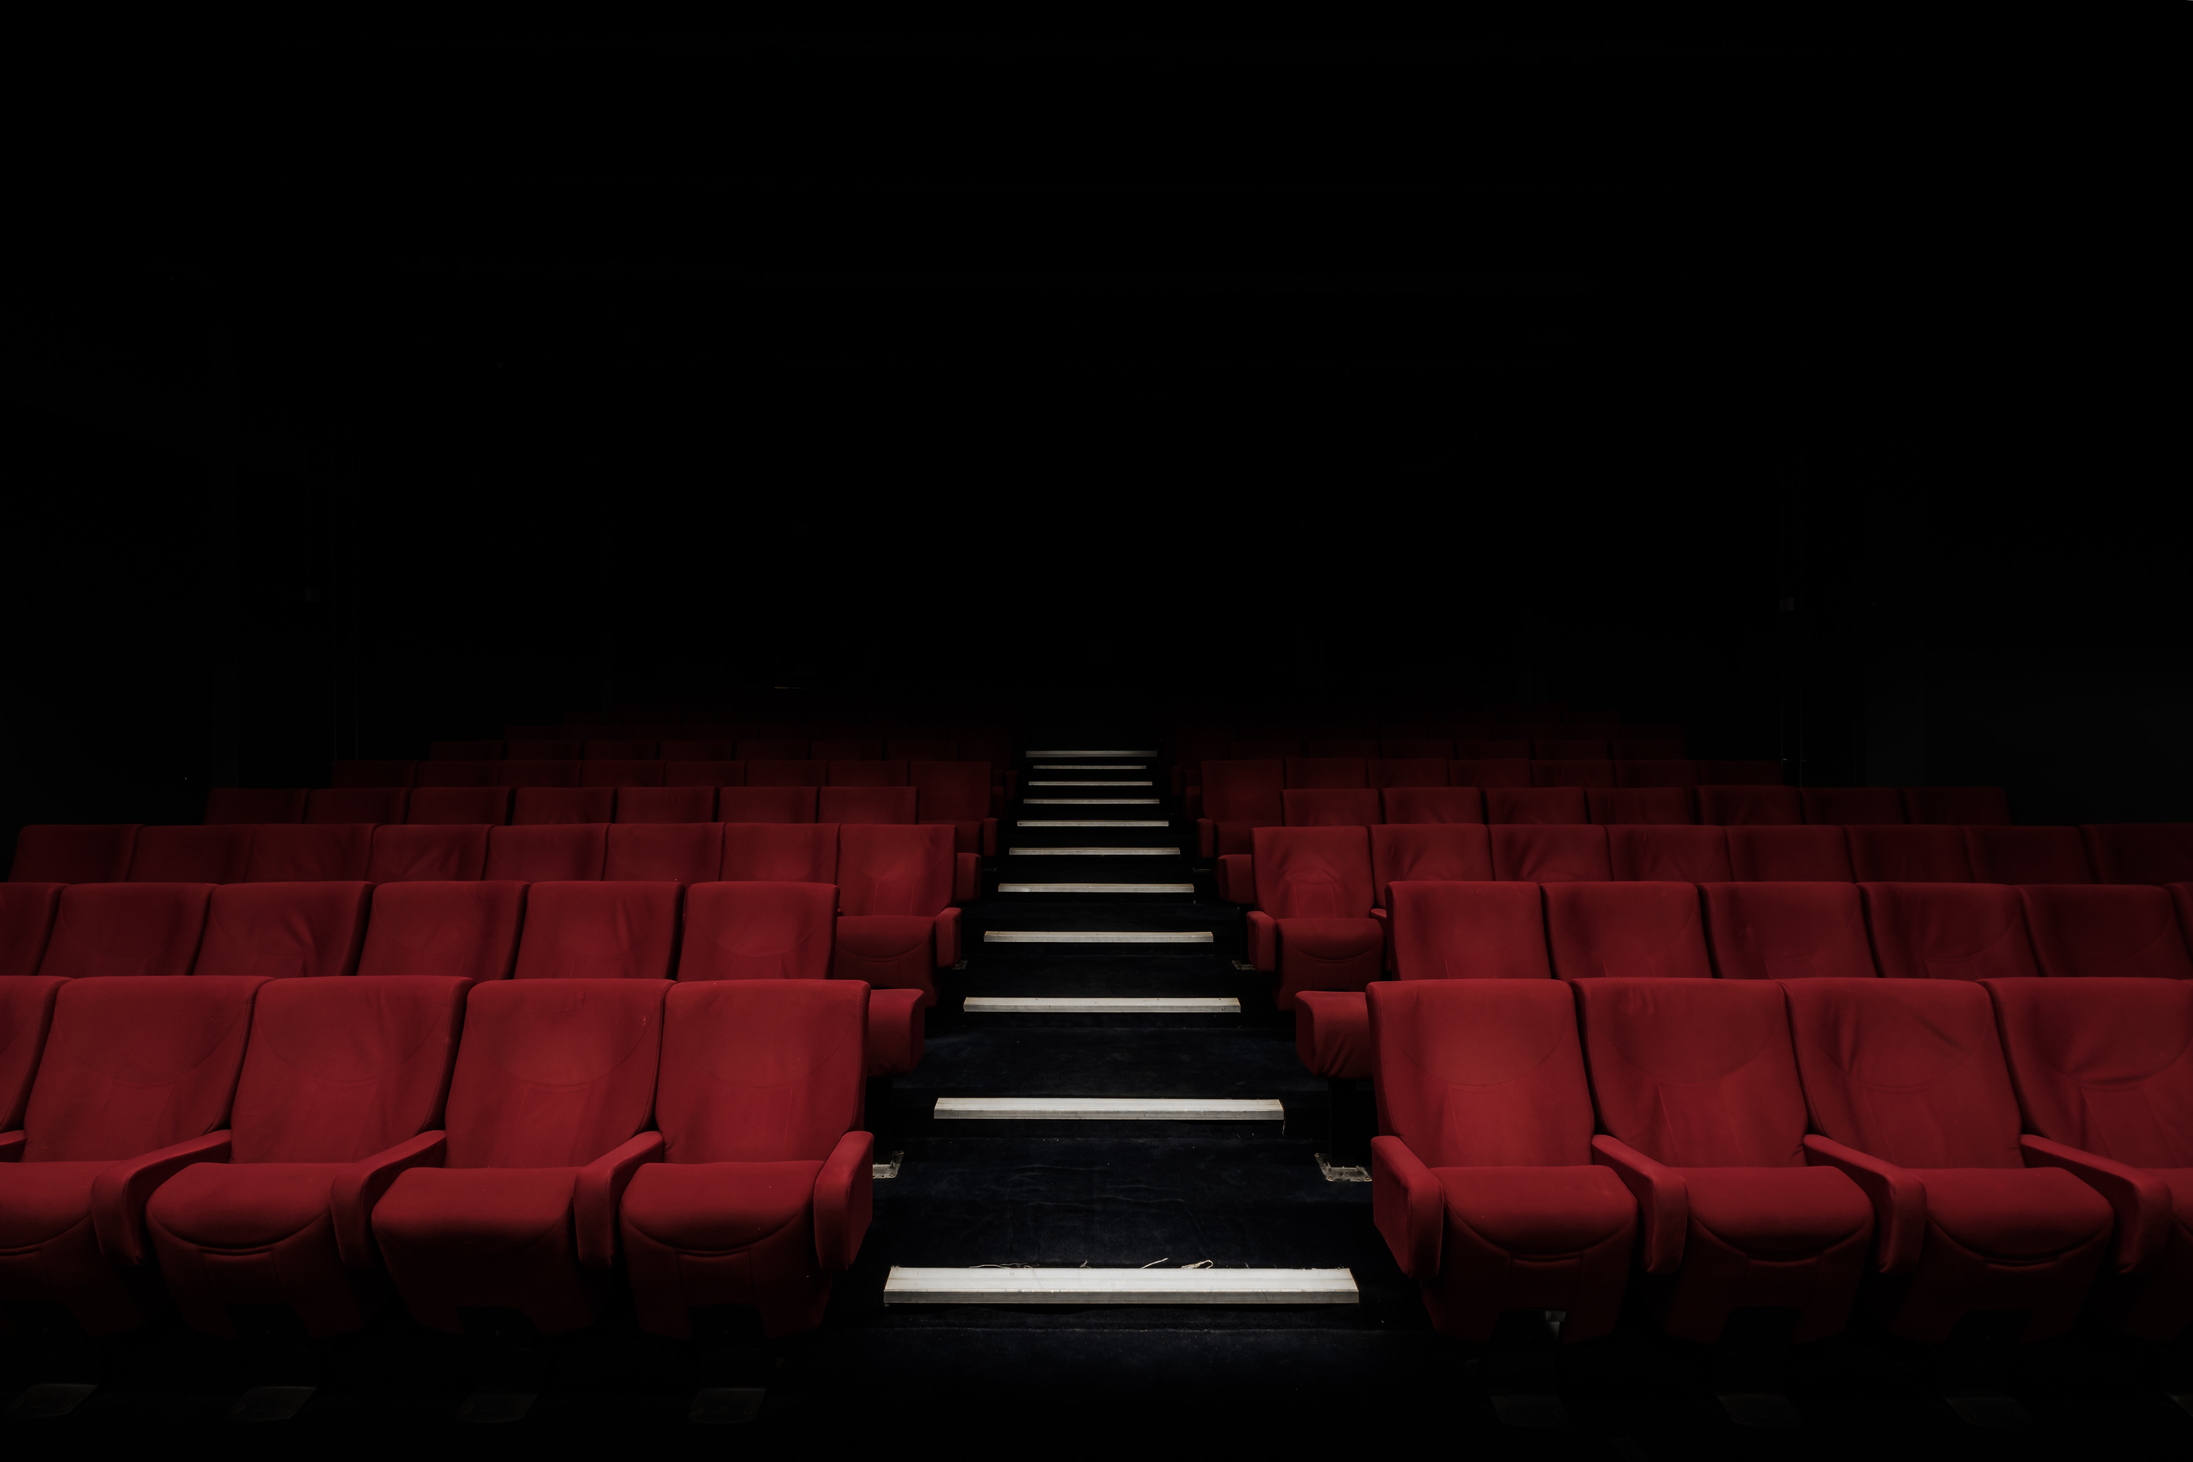
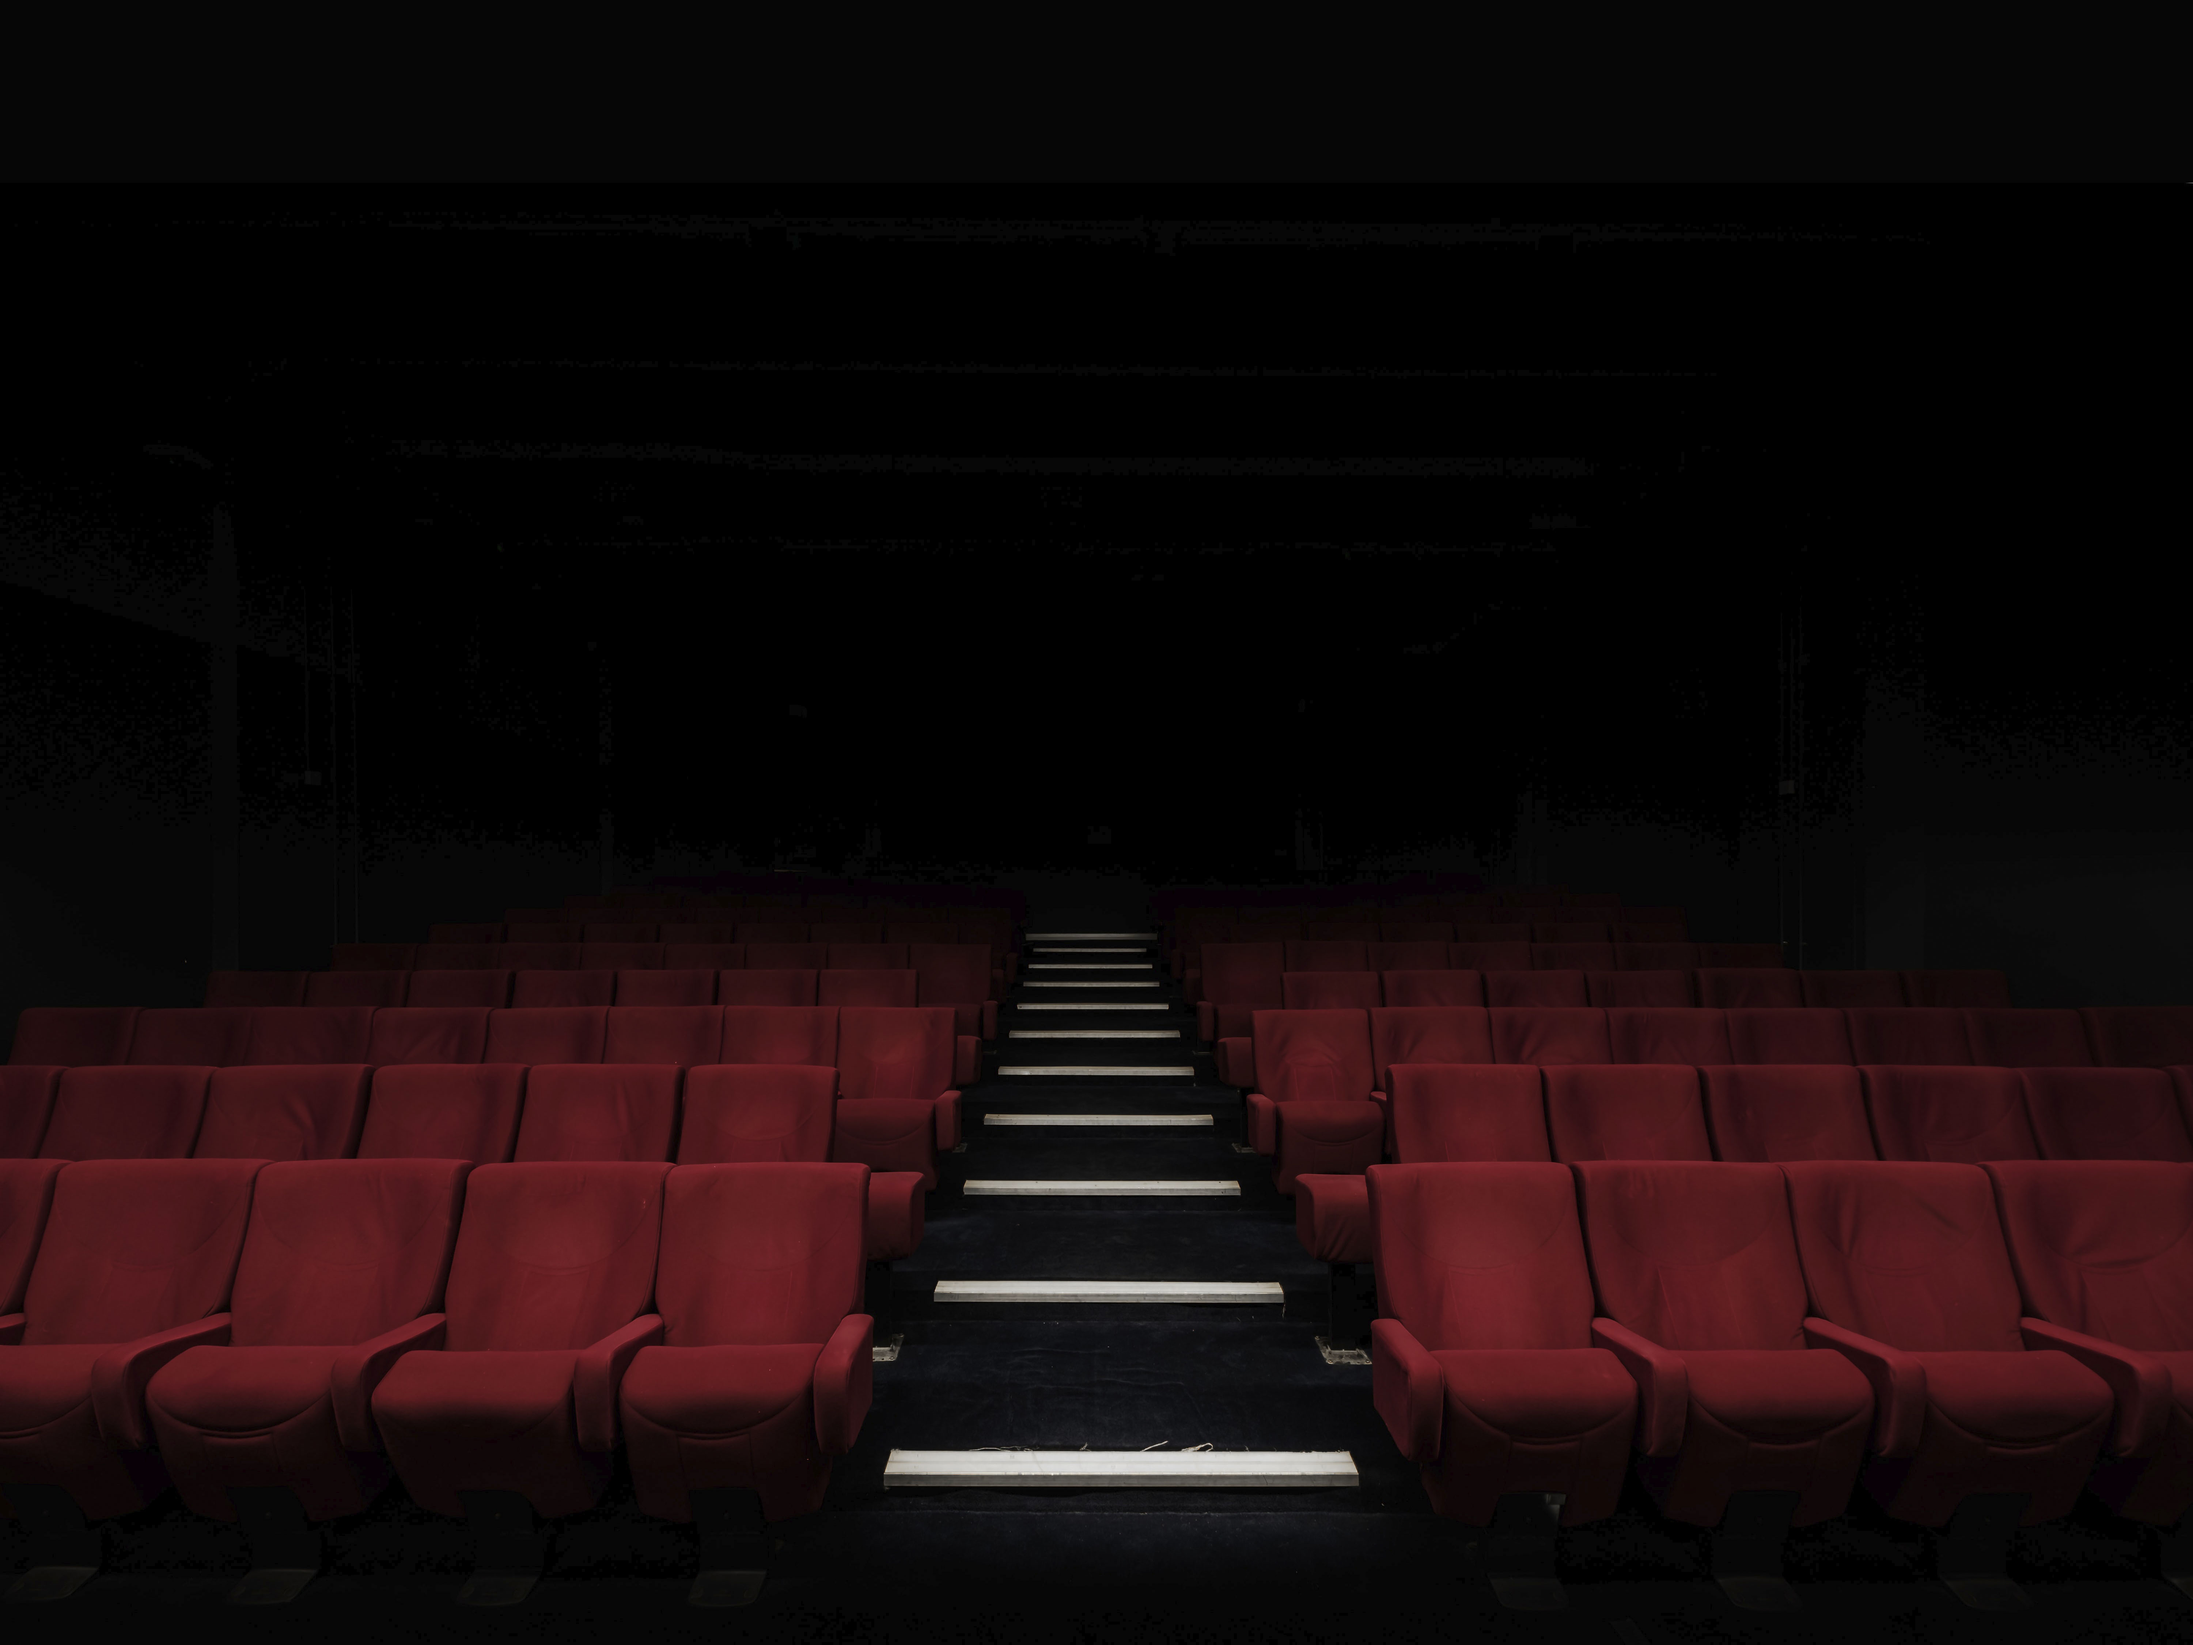
dropdown finished

Changed region(s): [[0.0, 0.5, 1.0, 0.9062]]

diff --git a/index.html b/index.html
@@ -10,16 +10,17 @@
         <link rel="stylesheet" href="css/menu.css">
         <link rel="stylesheet" href="css/search.css">
         <link rel="stylesheet" href="css/slider.css">
+        <link rel="stylesheet" href="css/dropdown.css">
         <link rel="stylesheet" href="https://stackpath.bootstrapcdn.com/bootstrap/4.4.1/css/bootstrap.min.css" integrity="sha384-Vkoo8x4CGsO3+Hhxv8T/Q5PaXtkKtu6ug5TOeNV6gBiFeWPGFN9MuhOf23Q9Ifjh" crossorigin="anonymous">
         <link href="https://fonts.googleapis.com/css2?family=Open+Sans:wght@400;600&display=swap" rel="stylesheet">
+        <link rel="stylesheet" href="https://cdn.jsdelivr.net/npm/simplebar@latest/dist/simplebar.css"/>
 
         <script src="js/menu.js"></script>
         <script src="js/search.js"></script>
+        <script src="js/dropdown.js"></script>
         <script src="https://code.jquery.com/jquery-3.4.1.slim.min.js" integrity="sha384-J6qa4849blE2+poT4WnyKhv5vZF5SrPo0iEjwBvKU7imGFAV0wwj1yYfoRSJoZ+n" crossorigin="anonymous"></script>
         <script src="https://cdn.jsdelivr.net/npm/popper.js@1.16.0/dist/umd/popper.min.js" integrity="sha384-Q6E9RHvbIyZFJoft+2mJbHaEWldlvI9IOYy5n3zV9zzTtmI3UksdQRVvoxMfooAo" crossorigin="anonymous"></script>
         <script src="https://stackpath.bootstrapcdn.com/bootstrap/4.4.1/js/bootstrap.min.js" integrity="sha384-wfSDF2E50Y2D1uUdj0O3uMBJnjuUD4Ih7YwaYd1iqfktj0Uod8GCExl3Og8ifwB6" crossorigin="anonymous"></script>
-
-        <link rel="stylesheet" href="https://cdn.jsdelivr.net/npm/simplebar@latest/dist/simplebar.css"/>
         <script src="https://cdn.jsdelivr.net/npm/simplebar@latest/dist/simplebar.min.js"></script>
 
         <noscript>
@@ -72,13 +73,28 @@
                 <div class="vl"></div>
 
                 <div class="group">
-                    <div class="button cities">
-                        <select class="citiesDrop" name="">
-                            <option value="city1" selected="selected">Город</option>
-                            <option value="city2">город</option>
-                            <option value="city3">город</option>
-                            <option value="city4">город</option>
-                        </select>
+                    <div class="button cities dropdown">
+                        <!-- <input class="drop-value" type="button" name="" value="город"> -->
+                        <button class="drop-value" type="button" value="" name="button"></button>
+                        <ul class="value-list">
+                            <li>город</li>
+                            <li>город</li>
+                            <li>город</li>
+                            <li>город</li>
+                            <li>город</li>
+                            <li>город</li>
+                            <li>межгород</li>
+                            <li>город</li>
+                            <li>город</li>
+                            <li>город</li>
+                            <li>город</li>
+                            <li>город</li>
+                            <li>город</li>
+                            <li>город</li>
+                            <li>город</li>
+                            <li>город</li>
+                        </ul>
+                        <!-- <select class="citiesDrop" name=""> <option value="city1" selected="selected">Город</option> <option value="city2">город</option> <option value="city3">город</option> <option value="city4">город</option> </select> -->
                     </div>
 
                     <div class="vl"></div>

diff --git a/css/dropdown.css b/css/dropdown.css
@@ -1,0 +1,83 @@
+.dropdown {
+    display: flex;
+    flex-direction: column;
+    align-items: center;
+    justify-content: flex-start;
+}
+
+.drop-value, .value-list {
+    /* position: absolute; */
+    top: 0;
+    left: 0;
+    width: 100%;
+}
+
+.drop-value {
+    padding: 0px 2px 0px 0px;
+    /* width: 120px; */
+    /* height: 100%; */
+    color: white;
+    display: block;
+    overflow: hidden;
+    /* appearance: none; */
+    box-shadow: none;
+    border-radius: none;
+    border: none;
+    cursor: pointer;
+    background: none;
+    outline: none;
+}
+
+.drop-value:focus {
+    outline: none;
+    background: none;
+}
+
+.drop-value:hover {
+    outline: none;
+    background: none;
+}
+
+.drop-value:active {
+    outline: none;
+    background: none;
+}
+
+.drop-value::after {
+    content: "";
+    margin-left: 10px;
+    border: solid white;
+    border-width: 0 3px 3px 0;
+    display: inline-block;
+    padding: 3px;
+    transform: rotate(45deg);
+    -webkit-transform: rotate(45deg);
+}
+
+.value-list {
+    width: 200px;
+    padding: 0px;
+    position: absolute;
+    margin-bottom: 0px;
+    margin-top: 43px;
+    background-color: white;
+    color: black;
+    max-height: 0px;
+    overflow: hidden;
+    list-style: none;
+    transition: max-height .3s ease-in-out;
+}
+
+.value-list-open {
+    max-height: 150px;
+    overflow: auto;
+}
+
+.value-list>li {
+    padding: 10px 20px;
+}
+
+.value-list>li:hover {
+    background-color: #EEEEEE;
+    cursor: pointer;
+}

diff --git a/js/dropdown.js b/js/dropdown.js
@@ -1,0 +1,24 @@
+window.addEventListener("load", () => {
+    let dropButton = document.getElementsByClassName("drop-value")[0];
+    let valList = document.getElementsByClassName("value-list")[0];
+
+    dropButton.addEventListener("click", () => {
+        valList.classList.toggle("value-list-open");
+    }, false);
+
+    let values = Array.from(valList.getElementsByTagName("li"));
+
+    dropButton.value = values[0].textContent;
+    dropButton.textContent = values[0].textContent;
+
+    values.forEach((val) => {
+        val.addEventListener("click", (e) => {
+            console.log(e);
+            let value = e.target.textContent;
+            dropButton.value = value;
+            dropButton.textContent = value;
+            valList.classList.toggle("value-list-open");
+        }, false);
+    });
+
+}, true);

diff --git a/css/main.css b/css/main.css
@@ -44,7 +44,7 @@ body {
     padding-top: 60px;
     min-height: 100%;
     background-color: black;
-    background-image: linear-gradient(180deg, rgba(255, 255, 255, 0) 0%, rgba(82, 82, 82, 0) 18%, rgba(54, 54, 54, 0) 39%, rgba(15, 15, 15, 1) 61%, rgba(0, 0, 0, 1) 100%), url(../img/back2.jpg);
+    background-image: linear-gradient(180deg, rgba(255, 255, 255, 0) 0%, rgba(82, 82, 82, 0) 18%, rgba(54, 54, 54, 0) 39%, rgba(15, 15, 15, 1) 61%, rgba(0, 0, 0, 1) 100%), url(../img/back.jpg);
     background-size: contain;
     background-repeat: no-repeat;
 }
